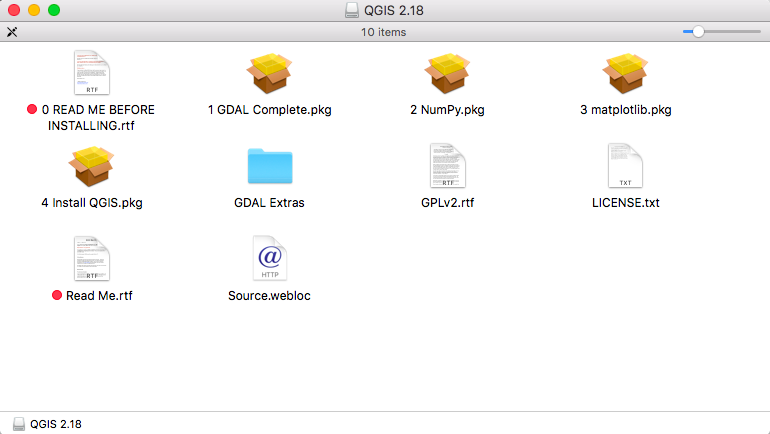
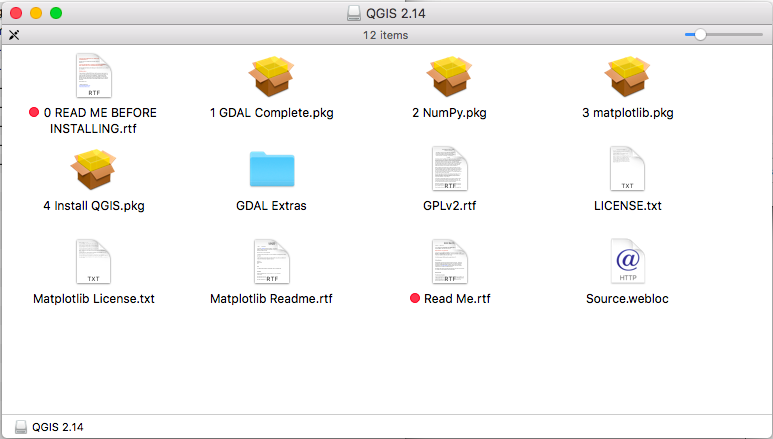
Atualizar instal QGIS e dados aula

diff --git a/instalar-qgis.html b/instalar-qgis.html
@@ -39,32 +39,32 @@
 				<p>O QGIS é um software livre e gratuito, disponível para Windows, MacOS X e Linux. Veja como instalar abaixo:</p>
 				<h3 id="windows-">Windows:</h3>
 				<ol>
-				<li>Entre no site:  <a href="http://www.qgis.org/pt_BR/site/forusers/download.html">http://www.qgis.org/pt_BR/site/forusers/download.html</a></li>
-				<li>Baixe o Instalador Standalone QGIS Versão 2.18 (último lançamento em Novembro 2016).<ul>
-				<li>Não sabe se seu computador é 32 bits ou 64 bits? Siga estas instruções: <a href="https://support.microsoft.com/pt-br/kb/827218">https://support.microsoft.com/pt-br/kb/827218</a></li>
-				</ul>
-				</li>
-				<li>Abra o instalador que você acabou de baixar.
-				Clique em próximo, concorde com os termos da licença.</li>
-				<li>Escolha a pasta de destino e clique em próximo.</li>
-				<li>Selecione os componentes a instalar (eles são opcionais e não necessários para o curso).</li>
-				<li>Clique e instalar e aguarde.</li>
-				<li>Pronto! Para abrir o QGIS digite &quot;QGIS&quot; na barra iniciar e abra o &quot;QGIS Desktop 2.18&quot;</li>
+					<li>Baixe o <a href="http://qgis.org/downloads/QGIS-OSGeo4W-2.14.9-2-Setup-x86.exe">Instalador Standalone QGIS Versão 2.14 <strong>(32 bits)</strong></a> ou <a href="http://qgis.org/downloads/QGIS-OSGeo4W-2.14.9-2-Setup-x86_64.exe">Instalador Standalone QGIS Versão 2.14 <strong>(64 bits)</strong></a>.
+						<ul style="margin:0;">
+							<li>Não sabe se seu computador é 32 bits ou 64 bits? Siga estas instruções: <a href="https://support.microsoft.com/pt-br/kb/827218">https://support.microsoft.com/pt-br/kb/827218</a></li>
+						</ul>
+					</li>
+					<li>Abra o instalador que você acabou de baixar. Clique em próximo, concorde com os termos da licença.</li>
+					<li>Escolha a pasta de destino e clique em próximo.</li>
+					<li>Selecione os componentes a instalar (eles são opcionais e não necessários para o curso).</li>
+					<li>Clique e instalar e aguarde.</li>
+					<li>Pronto! Para abrir o QGIS digite &quot;QGIS&quot; na barra iniciar e abra o &quot;QGIS Desktop 2.14&quot;</li>
 				</ol>
 				<hr>
 				<h3 id="mac-">Mac:</h3>
 				<ol>
-				<li>Baixe este arquivo: <a href="http://www.kyngchaos.com/files/software/qgis/QGIS-2.18.0-1.dmg">http://www.kyngchaos.com/files/software/qgis/QGIS-2.18.0-1.dmg</a></li>
-				<li>Abra o arquivo que você acabou de baixar e você deve ver uma pasta assim:
-				<img src="/images/qgis-mac-install.png" alt="Instalador QGIS Mac" style="border:1px solid"></li>
-				<li>Instale cada um dos arquivos .pkg na ordem numérica indicada no nome dos arquivos.<ul>
-				<li>1 GDAL Complete.pkg</li>
-				<li>2 NumPy.pkg</li>
-				<li>3 matplotlib.pkg</li>
-				<li>4 Install QGIS.pkg</li>
-				</ul>
-				</li>
-				<li>Pronto!</li>
+					<li>Baixe este arquivo: <a href="http://www.kyngchaos.com/files/software/qgis/QGIS-2.14.8-1.dmg">http://www.kyngchaos.com/files/software/qgis/QGIS-2.14.8-1.dmg</a></li>
+					<li>Abra o arquivo que você acabou de baixar e você deve ver uma pasta assim:
+						<img src="/images/qgis-mac-install.png" alt="Instalador QGIS Mac" style="border:1px solid; max-width:100%"></li>
+					<li>Instale cada um dos arquivos .pkg na ordem numérica indicada no nome dos arquivos.
+						<ul style="margin:0;">
+							<li>1 GDAL Complete.pkg</li>
+							<li>2 NumPy.pkg</li>
+							<li>3 matplotlib.pkg</li>
+							<li>4 Install QGIS.pkg</li>
+						</ul>
+					</li>
+					<li>Pronto!</li>
 				</ol>
 
 
@@ -76,8 +76,10 @@
 		<!-- Footer -->
 		<footer id="footer">
 			<p class="copyright">
-				<span class="icons-padding"><a href="https://www.facebook.com/medidasp" class="icon fa-facebook alt"><span class="label">Facebook</span></a></span>
-				<span class="icons-padding"><a href="mailto:contato@medidasp.com?subject=Contato" class="icon fa-envelope-o alt"><span class="label">Email</span></a></span>
+				<span class="icons-padding"><a href="https://www.facebook.com/medidasp" class="icon fa-facebook alt"><span class="label">Facebook</span></a>
+				</span>
+				<span class="icons-padding"><a href="mailto:contato@medidasp.com?subject=Contato" class="icon fa-envelope-o alt"><span class="label">Email</span></a>
+				</span>
 			</p>
 			<p class="copyright">CC-BY-SA Medida SP</p>
 		</footer>
@@ -94,14 +96,20 @@
 	<script src="assets/js/main.js"></script>
 
 	<script>
-  	(function(i,s,o,g,r,a,m){i['GoogleAnalyticsObject']=r;i[r]=i[r]||function(){
-  	(i[r].q=i[r].q||[]).push(arguments)},i[r].l=1*new Date();a=s.createElement(o),
-  	m=s.getElementsByTagName(o)[0];a.async=1;a.src=g;m.parentNode.insertBefore(a,m)
-  	})(window,document,'script','https://www.google-analytics.com/analytics.js','ga');
+		(function(i, s, o, g, r, a, m) {
+			i['GoogleAnalyticsObject'] = r;
+			i[r] = i[r] || function() {
+				(i[r].q = i[r].q || []).push(arguments)
+			}, i[r].l = 1 * new Date();
+			a = s.createElement(o),
+				m = s.getElementsByTagName(o)[0];
+			a.async = 1;
+			a.src = g;
+			m.parentNode.insertBefore(a, m)
+		})(window, document, 'script', 'https://www.google-analytics.com/analytics.js', 'ga');
 
-  	ga('create', 'UA-87495739-1', 'auto');
-  	ga('send', 'pageview');
-
+		ga('create', 'UA-87495739-1', 'auto');
+		ga('send', 'pageview');
 	</script>
 
 </body>

diff --git a/intro-gis.html b/intro-gis.html
@@ -63,37 +63,19 @@
 					vibrante de contribuidores que melhoram o software continuamente e desenvolvem plugins e novas ferramentas.</p>
 				<h3 id="o-que-voc-precisa-trazer-">O que você precisa trazer?</h3>
 				<p>Somente seu computador com o QGIS instalado.</p>
-				<!-- NOTE: inserir link tutorial instalação -->
-				<h3 id="quando-e-onde-">Quando e onde?</h3>
-				<h4>Data:</h4>
-				<p>03 de dezembro 9-18h
-					<br>(carga horária total: 8 horas)
-				</p>
-				<h4>Local:</h4>
-				<p>
-					Estúdio Registro
-					<br>Rua Major Sertório, 92 - 3º andar
-					<br>São Paulo, SP
-					<br><a href="https://goo.gl/maps/kfGpawSzyER2" class="image-link"><span class="main"><img src="images/intro-gis-mapa-02.jpg" alt="" width="300"/></span></a>
-					<!-- <br><iframe src="https://www.google.com/maps/embed?pb=!1m18!1m12!1m3!1d3657.6411541695475!2d-46.64716758519893!3d-23.545405666887962!2m3!1f0!2f0!3f0!3m2!1i1024!2i768!4f13.1!3m3!1m2!1s0x94ce584ee8e00ad9%3A0xe6330118c2498aaa!2sR.+Maj.+Sert%C3%B3rio%2C+92+-+Vila+Buarque%2C+S%C3%A3o+Paulo+-+SP!5e0!3m2!1sen!2sbr!4v1479133642886" width="400" height="300" frameborder="0" style="border:0" allowfullscreen></iframe> -->
-				</p>
-				<h3 id="valor-">Valor:</h3>
-				<p>R$160,00</p>
 				<h3 id="quem-somos-">Quem são os professores?</h3>
-				<p><a href="https://www.linkedin.com/in/loureirobernardo">Bernardo Loureiro</a> é mestre em Desenho Urbano pela Parsons School of Design, com foco em uso de dados
-				e tecnologias para urbanismo. Desenvolve análises, visualizações e aplicativos voltados
-				para problemas urbanos.</p>
+				<p><a href="https://www.linkedin.com/in/loureirobernardo">Bernardo Loureiro</a> é mestre em Desenho Urbano pela Parsons School of Design, com foco em uso de dados e tecnologias para urbanismo. Desenvolve análises, visualizações e aplicativos voltados
+					para problemas urbanos.</p>
 				<p>
-					<a href="https://www.linkedin.com/in/anelise-bertolini-66507b132">Anelise Bertolini</a> é arquiteta e urbanista pela USP, com experiência em projetos de transporte, mobilidade e desenho urbano.
-						Implementa GIS para identificação de condições existentes e propostas em projetos urbanos.
+					<a href="https://www.linkedin.com/in/anelise-bertolini-66507b132">Anelise Bertolini</a> é arquiteta e urbanista pela USP, com experiência em projetos de transporte, mobilidade e desenho urbano. Implementa GIS para identificação de condições existentes
+					e propostas em projetos urbanos.
 				</p>
 				<h3 id="contato-">Contato:</h3>
 				<p><a href="mailto:contato@medidasp.com?subject=Contato+Curso+Intro+GIS">contato@medidasp.com</a></p>
 				<h3 id="inscricoes-">Inscrições:</h3>
 				<ul class="actions">
-					<li><a href="http://www.cinese.me/encontros/curso-introducao-a-gis-e-mapeamento-com-qgis" class="button special">Se inscreva aqui</a></li>
+					<li><a href="https://www.eventbrite.com.br/e/curso-introducao-a-gis-e-mapeamento-com-qgis-1401-e-2101-9-13h-tickets-30339928543" class="button special">Se inscreva aqui</a></li>
 				</ul>
-				<!-- NOTE: link para eventbrite -->
 
 				<hr>
 				<h3 id="programa-detalhado-do-curso-">Programa detalhado do curso:</h3>
@@ -176,8 +158,10 @@
 		<!-- Footer -->
 		<footer id="footer">
 			<p class="copyright">
-				<span class="icons-padding"><a href="https://www.facebook.com/medidasp" class="icon fa-facebook alt"><span class="label">Facebook</span></a></span>
-				<span class="icons-padding"><a href="mailto:contato@medidasp.com?subject=Contato" class="icon fa-envelope-o alt"><span class="label">Email</span></a></span>
+				<span class="icons-padding"><a href="https://www.facebook.com/medidasp" class="icon fa-facebook alt"><span class="label">Facebook</span></a>
+				</span>
+				<span class="icons-padding"><a href="mailto:contato@medidasp.com?subject=Contato" class="icon fa-envelope-o alt"><span class="label">Email</span></a>
+				</span>
 			</p>
 			<p class="copyright">CC-BY-SA Medida SP</p>
 		</footer>
@@ -194,14 +178,20 @@
 	<script src="assets/js/main.js"></script>
 
 	<script>
-  	(function(i,s,o,g,r,a,m){i['GoogleAnalyticsObject']=r;i[r]=i[r]||function(){
-  	(i[r].q=i[r].q||[]).push(arguments)},i[r].l=1*new Date();a=s.createElement(o),
-  	m=s.getElementsByTagName(o)[0];a.async=1;a.src=g;m.parentNode.insertBefore(a,m)
-  	})(window,document,'script','https://www.google-analytics.com/analytics.js','ga');
+		(function(i, s, o, g, r, a, m) {
+			i['GoogleAnalyticsObject'] = r;
+			i[r] = i[r] || function() {
+				(i[r].q = i[r].q || []).push(arguments)
+			}, i[r].l = 1 * new Date();
+			a = s.createElement(o),
+				m = s.getElementsByTagName(o)[0];
+			a.async = 1;
+			a.src = g;
+			m.parentNode.insertBefore(a, m)
+		})(window, document, 'script', 'https://www.google-analytics.com/analytics.js', 'ga');
 
-  	ga('create', 'UA-87495739-1', 'auto');
-  	ga('send', 'pageview');
-
+		ga('create', 'UA-87495739-1', 'auto');
+		ga('send', 'pageview');
 	</script>
 
 </body>

diff --git a/assets/css/main.css b/assets/css/main.css
@@ -1,6 +1,6 @@
 @import url(font-awesome.min.css);
 /*@import "https://fonts.googleapis.com/css?family=Source+Sans+Pro:300,400";*/
-@import "https://fonts.googleapis.com/css?family=Roboto|Roboto+Condensed";
+@import "https://fonts.googleapis.com/css?family=Roboto:400,900|Roboto+Condensed";
 
 /*
 	Stellar by HTML5 UP
@@ -1699,7 +1699,7 @@
 		}
 
 	strong, b {
-		font-weight: 400;
+		font-weight: 900;
 	}
 
 	em, i {
